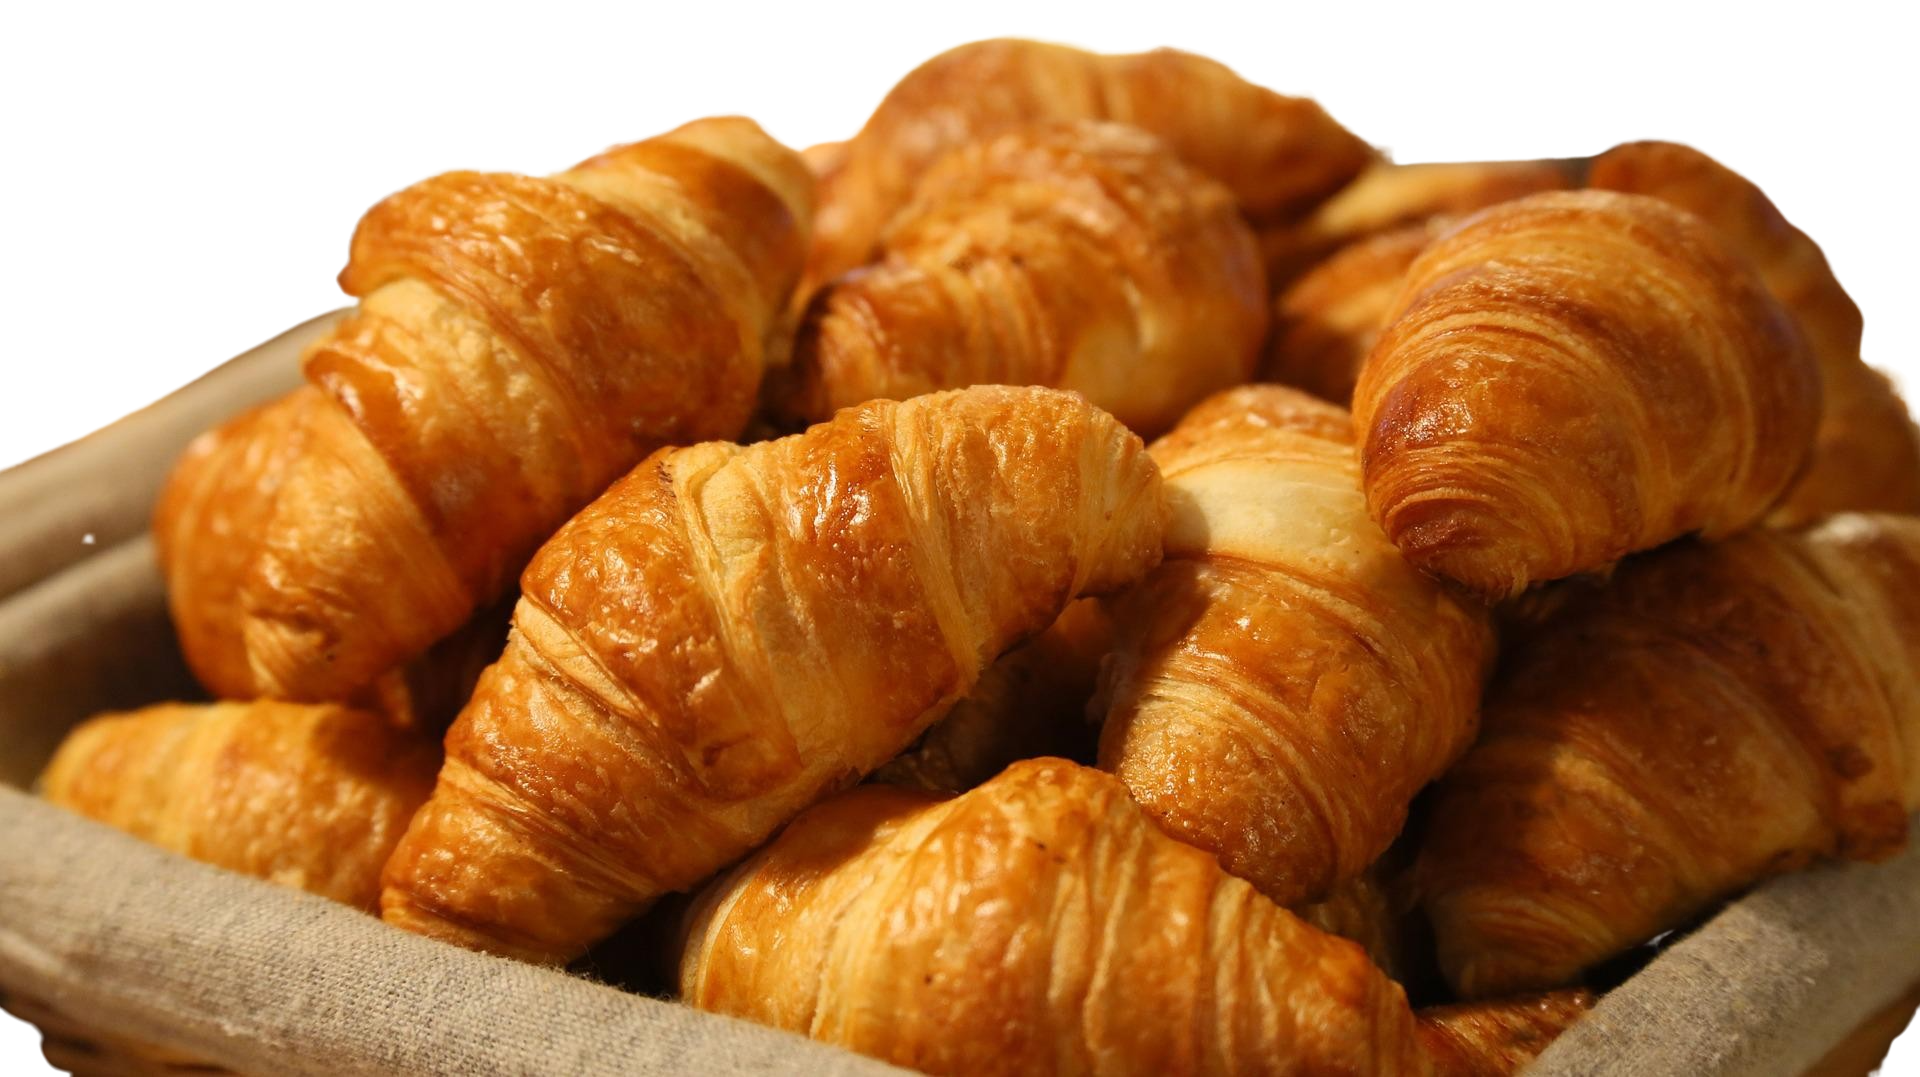
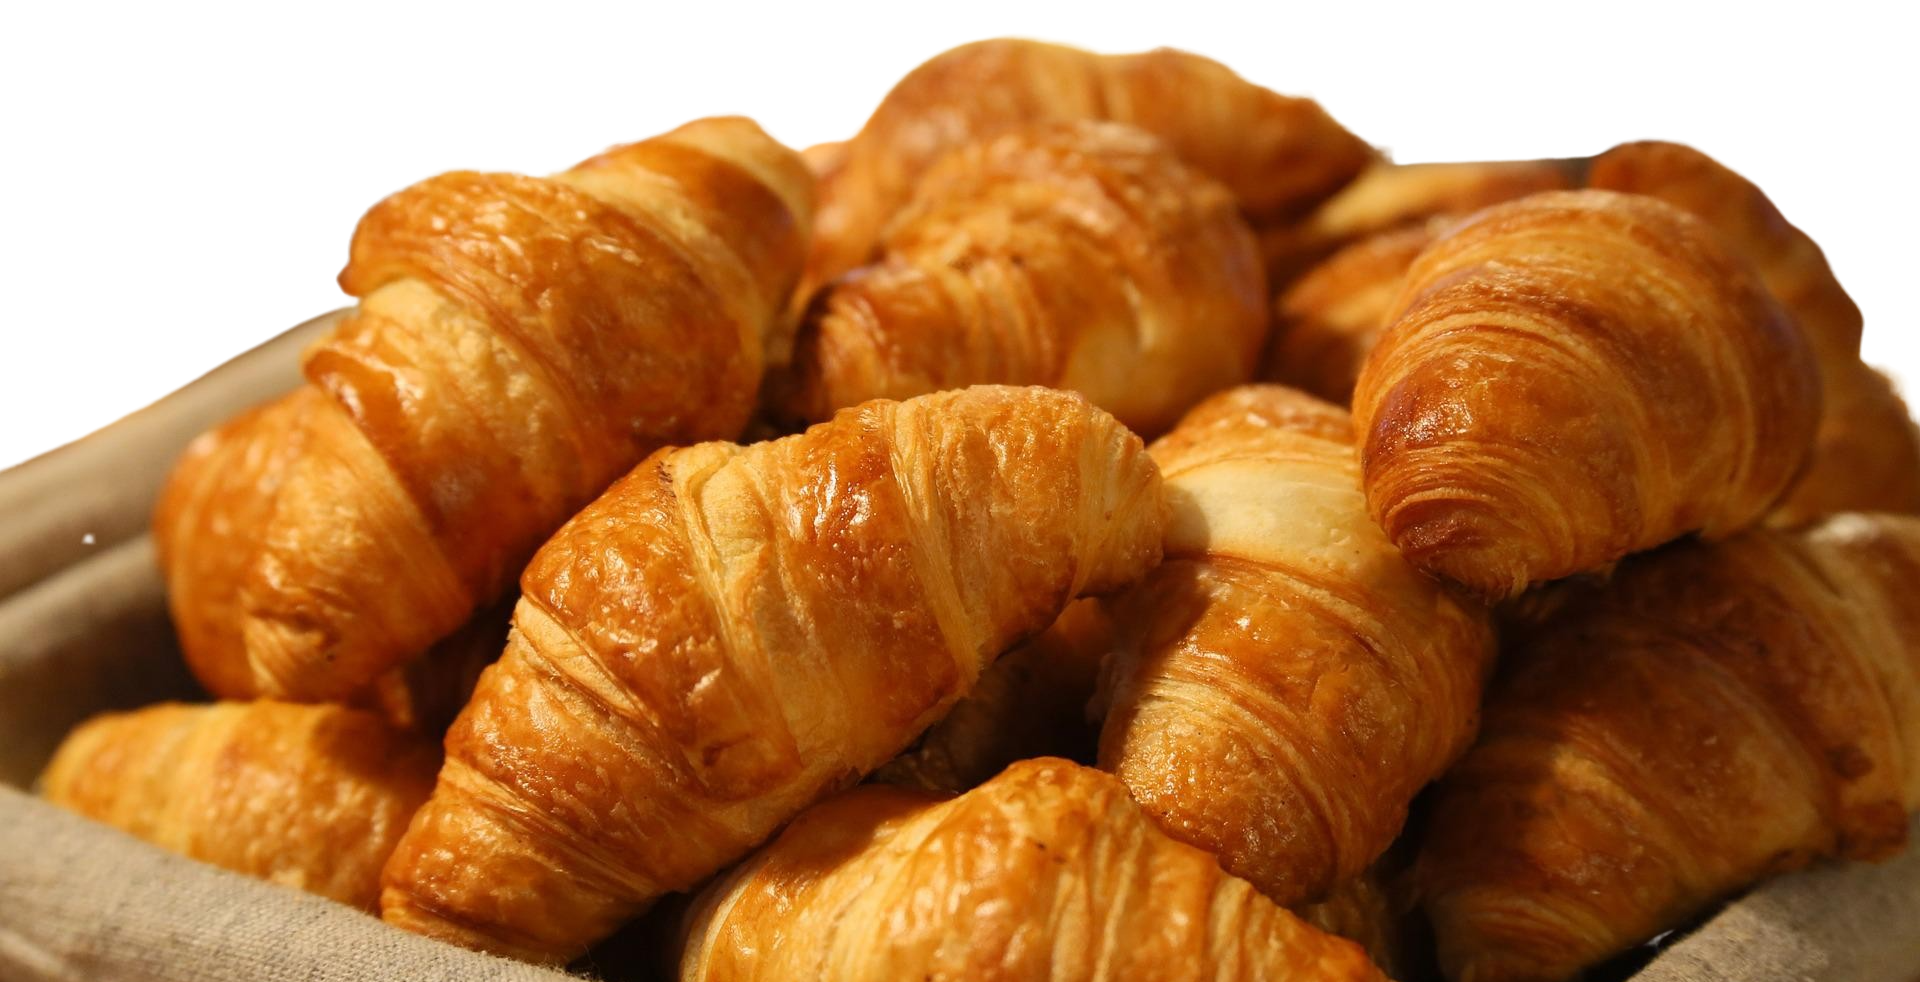
Add files via upload

diff --git a/sams-patisseries/dist/style.css b/sams-patisseries/dist/style.css
@@ -1,1 +1,1 @@
-*,*::before,*::after{box-sizing:border-box;margin:0;padding:0}body{font-family:"Amaranth",sans-serif;background-color:#e8ab16}body,a{color:#2f2f1b}h1,h2,h3,h4,p{line-height:1.5}h1{font-size:clamp(1.75em,1em + 2vw,2.5em)}h2{font-size:clamp(1.375em,0.875em + 2vw,2.25em)}p{font-size:1em}a,a:visited,a:active{text-decoration:none}.sp-footer{background-color:#2f2f1b}.sp-footer__author{background-color:#2f2f1b;color:#e8ab16;display:flex;align-items:center;justify-content:space-between;width:66%;margin:0 auto;padding:.5rem 0}.sp-footer__author__social-media a:nth-of-type(1){margin-right:.5rem}.sp-footer__author__social-media i{color:#e8ab16}.sp-gallery{display:flex;align-items:center;justify-content:center;margin:0 auto}.sp-gallery img{height:250px;width:334px}.sp-header{display:flex;justify-content:space-between;margin:0 auto;max-width:66%}.sp-header__aside{color:#e7e1e0;background-color:#2f2f1b;max-width:35%;text-align:center;padding:1rem}.sp-header__aside__title{font-size:2.5rem;font-family:"Alex Brush",sans-serif}.sp-header__aside__sub-title{margin:5rem 0 15rem;padding:0 1.8rem;font-size:1.2rem;font-family:"Amatic SC",sans-serif;letter-spacing:.05rem}.sp-header__main{max-width:65%;text-align:center}.sp-header__main__nav-links{display:flex;align-items:center;justify-content:space-between}.sp-header__main__nav-links__site-nav{margin:1rem 0 1rem 7.5rem}.sp-header__main__nav-links__site-nav a{margin-left:1rem;text-transform:uppercase;font-size:1.1rem}.sp-header__main__nav-links__social-media{justify-content:flex-end}.sp-header__main__nav-links__social-media a{margin-left:.5rem}.sp-header__main__hero{max-width:80%;margin:3rem auto;font-size:1.3rem}.sp-header__main__hero p{margin-bottom:2.5rem}.sp-header__main__hero a{background-color:#2f2f1b;color:#e8ab16;padding:.75rem 5rem;border-radius:25px;box-shadow:0px 5px 10px rgba(0,0,0,.5)}.sp-hero-section{max-width:66%;margin:0 auto}.sp-hero-section__hero-image{max-width:100%;margin:0 0 0 0}.sp-patisserie-menu{display:flex;flex-direction:column;text-align:center;width:66%;margin:0 auto;padding:3rem 3.5rem;color:#e8ab16;background-color:#324a60;letter-spacing:.1rem}.sp-patisserie-menu h2{font-size:2.5rem}.sp-patisserie-menu h3{font-size:2rem;margin:.7rem 0 .2rem 0}.sp-patisserie-menu h4{font-size:1.5rem;margin:.7rem 0 .8rem 0}.sp-patisserie-menu p{font-size:1.1rem;margin:0 0 .5rem 0}.sp-mission-statement{display:flex;flex-direction:column;row-gap:2rem;width:66%;margin:0 auto;padding:3rem 3.5rem;color:#324a60;background-color:#e7e1e0}.sp-mission-statement__part-1{font-size:1.7rem}.sp-mission-statement__part-2,.sp-mission-statement__part-3,.sp-mission-statement__part-4,.sp-mission-statement__part-5{font-size:1.1rem}.fa-croissant{color:#324a60;background-color:#324a60;font-size:10rem}.sp-newsletter{max-width:66%;margin:0 auto;padding:3rem;text-align:center}.sp-newsletter__prompt{font-size:1.8rem;font-weight:400}.sp-newsletter__input{margin:2rem auto;display:flex;flex-direction:column;max-width:40%}.sp-newsletter__input input{padding:.5rem;border:none;border-bottom:2px solid #2f2f1b;margin-bottom:1.5rem;background-color:rgba(0,0,0,0);font-size:1rem}.sp-newsletter__input input::-moz-placeholder{color:#2f2f1b;font-family:"Amaranth",sans-serif}.sp-newsletter__input input::placeholder{color:#2f2f1b;font-family:"Amaranth",sans-serif}.sp-newsletter__input input:focus{outline:none}.sp-newsletter__input button{font-family:"Amaranth",sans-serif;background-color:#324a60;color:#e8ab16;border-radius:5px;padding:.5rem;font-weight:700;font-size:1rem;border:none;cursor:pointer;box-shadow:0px 5px 10px rgba(0,0,0,.5)}/*# sourceMappingURL=style.css.map */
+*,*::before,*::after{box-sizing:border-box;margin:0;padding:0}*{scroll-behavior:smooth}body{font-family:"Amaranth",sans-serif;background-color:#e8ab16}body,a{color:#2f2f1b}h1,h2,h3,h4,p{line-height:1.5}h1{font-size:clamp(1.75em,1em + 2vw,2.5em)}h2{font-size:clamp(1.375em,0.875em + 2vw,2.25em)}p{font-size:1em}a,a:visited,a:active{text-decoration:none}.sp-footer{background-color:#2f2f1b}.sp-footer__author{background-color:#2f2f1b;color:#e8ab16;display:flex;align-items:center;justify-content:space-between;width:66%;margin:0 auto;padding:.5rem 0}.sp-footer__author__social-media a:nth-of-type(2){margin:0 .5rem}.sp-footer__author__social-media i{color:#e8ab16}@media(max-width: 900px){.sp-footer{max-width:100%}}.sp-gallery{display:flex;align-items:center;justify-content:center;width:66.75%;margin:0 auto}.sp-gallery img{height:auto;width:33%}@media(max-width: 900px){.sp-gallery{max-width:100%}}.sp-header{display:flex;justify-content:space-between;margin:0 auto;max-width:66%}.sp-header__aside{color:#e7e1e0;background-color:#2f2f1b;max-width:35%;text-align:center;padding:1rem}.sp-header__aside__title{font-size:2.5rem;font-family:"Alex Brush",sans-serif}.sp-header__aside__sub-title{margin:5rem 0 20rem;padding:0 1.8rem;font-size:1.2rem;font-family:"Amatic SC",sans-serif;letter-spacing:.05rem}.sp-header__main{max-width:65%;text-align:center}.sp-header__main__nav-links{display:flex;align-items:center;justify-content:space-between}.sp-header__main__nav-links__site-nav{margin:1rem 0 1rem 7.5rem}.sp-header__main__nav-links__site-nav a{margin-left:1rem;text-transform:uppercase;font-size:1.1rem}.sp-header__main__nav-links__site-nav a:hover{color:#324a60;border-bottom:2px solid #324a60;transition:.1s ease}.sp-header__main__nav-links__social-media{justify-content:flex-end}.sp-header__main__nav-links__social-media a{margin-left:.5rem}.sp-header__main__nav-links__social-media i{font-size:1.25rem}.sp-header__main__nav-links__social-media i:hover{color:#324a60;transition:.1s ease}.sp-header__main__hero{max-width:80%;margin:3rem auto;font-size:1.3rem}.sp-header__main__hero p{margin-bottom:2.5rem}.sp-header__main__hero a{background-color:#2f2f1b;color:#e8ab16;padding:.75rem 5rem;border-radius:25px;box-shadow:0px 5px 10px rgba(0,0,0,.5)}.sp-header__main__hero a:hover{background-color:#324a60;transition:.1s ease}@media(max-width: 900px){.sp-header{max-width:100%}}.sp-hero-section{max-width:66%;margin:0 auto}.sp-hero-section__hero-image{max-width:100%;margin:-20rem 0 0}@media(max-width: 900px){.sp-hero-section{max-width:100%}}.sp-patisserie-menu{display:flex;flex-direction:column;text-align:center;width:66%;margin:0 auto;padding:3rem 3.5rem;color:#e8ab16;background-color:#324a60;letter-spacing:.1rem}.sp-patisserie-menu h2{font-size:2.5rem}.sp-patisserie-menu h3{font-size:2rem;margin:.7rem 0 .2rem 0}.sp-patisserie-menu h4{font-size:1.5rem;margin:.7rem 0 .8rem 0}.sp-patisserie-menu p{font-size:1.1rem;margin:0 0 .5rem 0}@media(max-width: 900px){.sp-patisserie-menu{max-width:100%}}.sp-mission-statement{display:flex;flex-direction:column;row-gap:2rem;width:66%;margin:-0.22rem auto 0;padding:3rem 3.5rem;color:#324a60;background-color:#e7e1e0}.sp-mission-statement__part-1{font-size:1.6rem}.sp-mission-statement__part-2,.sp-mission-statement__part-3,.sp-mission-statement__part-4,.sp-mission-statement__part-5{font-size:1.2rem}.fa-croissant{color:#324a60;background-color:#324a60;font-size:10rem}@media(max-width: 900px){.sp-mission-statement{max-width:100%}}.sp-newsletter{max-width:66%;margin:0 auto;padding:3rem;text-align:center}.sp-newsletter__prompt{font-size:1.8rem;font-weight:400}.sp-newsletter__input{margin:2rem auto;display:flex;flex-direction:column;max-width:40%}.sp-newsletter__input input{padding:.5rem;border:none;border-bottom:2px solid #2f2f1b;margin-bottom:1.5rem;background-color:rgba(0,0,0,0);font-size:1rem}.sp-newsletter__input input::-moz-placeholder{color:#2f2f1b;font-family:"Amaranth",sans-serif}.sp-newsletter__input input::placeholder{color:#2f2f1b;font-family:"Amaranth",sans-serif}.sp-newsletter__input input:focus{outline:none}.sp-newsletter__input button{font-family:"Amaranth",sans-serif;background-color:#324a60;color:#e8ab16;border-radius:5px;padding:.5rem;font-weight:700;font-size:1rem;border:none;cursor:pointer;box-shadow:0px 5px 10px rgba(0,0,0,.5)}.sp-newsletter__input button:hover{background-color:#2f2f1b;transition:.1s ease}@media(max-width: 900px){.sp-newsletter{max-width:100%}}/*# sourceMappingURL=style.css.map */

diff --git a/sams-patisseries/index.html b/sams-patisseries/index.html
@@ -11,7 +11,7 @@
   <link rel="preconnect" href="https://fonts.googleapis.com">
   <link rel="preconnect" href="https://fonts.gstatic.com" crossorigin>
   <link href="https://fonts.googleapis.com/css2?family=Alex+Brush&family=Amaranth:wght@400;700&family=Amatic+SC&display=swap" rel="stylesheet">
-  <<link rel="stylesheet" href="https://cdnjs.cloudflare.com/ajax/libs/font-awesome/6.4.0/css/all.min.css" integrity="sha512-iecdLmaskl7CVkqkXNQ/ZH/XLlvWZOJyj7Yy7tcenmpD1ypASozpmT/E0iPtmFIB46ZmdtAc9eNBvH0H/ZpiBw==" crossorigin="anonymous" referrerpolicy="no-referrer" />
+  <link rel="stylesheet" href="https://cdnjs.cloudflare.com/ajax/libs/font-awesome/6.4.0/css/all.min.css" integrity="sha512-iecdLmaskl7CVkqkXNQ/ZH/XLlvWZOJyj7Yy7tcenmpD1ypASozpmT/E0iPtmFIB46ZmdtAc9eNBvH0H/ZpiBw==" crossorigin="anonymous" referrerpolicy="no-referrer" />
   <script src="/app/js/script.js" defer></script>
   <title>Where Culinary Artistry Meets Exceptional Indulgence | Order Today | Sam's Patisseries</title>
 </head>
@@ -27,10 +27,10 @@
     <div class="sp-header__main">
       <div class="sp-header__main__nav-links">
         <div class="sp-header__main__nav-links__site-nav">
-          <a href="#">Food</a>
-          <a href="#">About Us</a>
-          <a href="#">Menu</a>
-          <a href="#">Services</a>
+          <a href="#food">Food</a>
+          <a href="#about">About Us</a>
+          <a href="#menu">Menu</a>
+          <a href="#services">Services</a>
         </div>
         <div class="sp-header__main__nav-links__social-media">
           <a href="#" target="_blank">
@@ -53,10 +53,10 @@
       </div>
     </div>
   </header>
-  <section class="sp-hero-section">
+  <section class="sp-hero-section" id="food">
     <img src="/app/assets/sp-croissants.png" alt="Sam's Patisseries" class="sp-hero-section__hero-image">
   </section>
-  <section class="sp-mission-statement">
+  <section class="sp-mission-statement" id="about">
     <h2 class="sp-mission-statement__part-1">
       Welcome to Sam's Patisseries, where culinary artistry meets exceptional indulgence.
     </h2>
@@ -84,7 +84,7 @@
     </p>
     <i class="fa-duotone fa-croissant"></i>
   </section>
-  <section class="sp-gallery">
+  <section class="sp-gallery" id="menu">
     <img src="/app/assets/sp-coffee-glass.jpg" alt="Sam's Patisseries">
     <img src="/app/assets/sp-fruit-dessert.jpg" alt="Sam's Patisseries">
     <img src="/app/assets/sp-coffee-cup.jpg" alt="Sam's Patisseries">
@@ -176,7 +176,7 @@
       limited-edition offerings when you visit Sam's Patisseries.
     </p>
   </main>
-  <section class="sp-newsletter">
+  <section class="sp-newsletter" id="services">
     <h2 class="sp-newsletter__prompt">
       Want to be the first to receive the latest menu updates and news? Subscribe to our
       newsletter today
@@ -195,9 +195,12 @@
         <a href="#" target="_blank">
           <i class="fa-brands fa-twitter"></i>
         </a>
+        <a href="#" target="_blank">
+          <i class="fa-brands fa-linkedin-in"></i>
+        </a>
       </div>
       <div class="sp-footer__copyright">
-        <p>Copyright 2023 &#169; Sam's Patisseries</p>
+        <p>Copyright &#169; 2023, Sam's Patisseries</p>
       </div>
     </div>
   </footer>

diff --git a/sams-patisseries/app/scss/layout/_header.scss b/sams-patisseries/app/scss/layout/_header.scss
@@ -19,7 +19,7 @@
         }
 
         &__sub-title {
-            margin: 5rem 0 15rem;
+            margin: 5rem 0 20rem;
             padding: 0 1.8rem;
             font-size: 1.2rem;
             font-family: u.$font-stack-tertiary;
@@ -46,12 +46,27 @@
                 font-size: 1.1rem;
             }
 
+            &__site-nav a:hover {
+                color: u.$blue;
+                border-bottom: 2px solid u.$blue;
+                transition: .1s ease;
+            }
+
             &__social-media {
                 justify-content: flex-end;
             }
 
             &__social-media a {
                 margin-left: .5rem;
+            }
+
+            &__social-media i {
+                font-size: 1.25rem;
+            }
+
+            &__social-media i:hover {
+                color: u.$blue;
+                transition: .1s ease;
             }
         }
 
@@ -72,5 +87,16 @@
             border-radius: 25px;
             box-shadow: 0px 5px 10px rgba(0, 0, 0, .5);
         }
+
+        &__hero a:hover {
+            background-color: u.$blue;
+            transition: .1s ease;
+        }
+    }
+}
+
+@media (max-width: 900px) {
+    .sp-header {
+        max-width: 100%;
     }
 }

diff --git a/sams-patisseries/app/scss/layout/_mission.scss b/sams-patisseries/app/scss/layout/_mission.scss
@@ -5,20 +5,20 @@
     flex-direction: column;
     row-gap: 2rem;
     width: 66%;
-    margin: 0 auto;
+    margin: -.22rem auto 0;
     padding: 3rem 3.5rem;
     color: u.$blue;
     background-color: u.$white;
 
     &__part-1 {
-        font-size: 1.7rem;
+        font-size: 1.6rem;
     }
 
     &__part-2,
     &__part-3,
     &__part-4,
     &__part-5 {
-        font-size: 1.1rem;
+        font-size: 1.2rem;
     }
 }
 
@@ -26,4 +26,10 @@
     color: u.$blue;
     background-color: u.$blue;
     font-size: 10rem;
+}
+
+@media (max-width: 900px) {
+    .sp-mission-statement {
+        max-width: 100%;
+    }
 }

diff --git a/sams-patisseries/app/scss/layout/_footer.scss b/sams-patisseries/app/scss/layout/_footer.scss
@@ -13,12 +13,18 @@
         margin: 0 auto;
         padding: .5rem 0;
 
-        &__social-media a:nth-of-type(1) {
-            margin-right: .5rem;
+        &__social-media a:nth-of-type(2) {
+            margin: 0 .5rem;
         }
 
         &__social-media i {
             color: u.$gold;
         }
+    }
+}
+
+@media (max-width: 900px) {
+    .sp-footer {
+        max-width: 100%;
     }
 }

diff --git a/sams-patisseries/app/scss/layout/_gallery.scss b/sams-patisseries/app/scss/layout/_gallery.scss
@@ -2,10 +2,17 @@
     display: flex;
     align-items: center;
     justify-content: center;
+    width: 66.75%;
     margin: 0 auto;
 }
 
 .sp-gallery img {
-    height: 250px;
-    width: 334px;
+    height: auto;
+    width: 33%
+}
+
+@media (max-width: 900px) {
+    .sp-gallery {
+        max-width: 100%;
+    }
 }

diff --git a/sams-patisseries/app/scss/layout/_newsletter.scss b/sams-patisseries/app/scss/layout/_newsletter.scss
@@ -48,4 +48,15 @@
         cursor: pointer;
         box-shadow: 0px 5px 10px rgba(0, 0, 0, .5);
     }
+
+    &__input button:hover {
+        background-color: u.$black;
+        transition: .1s ease;
+    }
+}
+
+@media (max-width: 900px) {
+    .sp-newsletter {
+        max-width: 100%;
+    }
 }

diff --git a/sams-patisseries/app/scss/layout/_hero.scss b/sams-patisseries/app/scss/layout/_hero.scss
@@ -4,6 +4,12 @@
 
     &__hero-image {
         max-width: 100%;
-        margin: 0 0 0 0;
+        margin: -20rem 0 0;
+    }
+}
+
+@media (max-width: 900px) {
+    .sp-hero-section {
+        max-width: 100%;
     }
 }

diff --git a/sams-patisseries/app/scss/layout/_menu.scss b/sams-patisseries/app/scss/layout/_menu.scss
@@ -30,3 +30,9 @@
     font-size: 1.1rem;
     margin: 0 0 .5rem 0;
 }
+
+@media (max-width: 900px) {
+    .sp-patisserie-menu {
+        max-width: 100%;
+    }
+}

diff --git a/sams-patisseries/app/scss/base/_typography.scss b/sams-patisseries/app/scss/base/_typography.scss
@@ -1,5 +1,9 @@
 @use '../utils' as u;
 
+* {
+  scroll-behavior: smooth;
+}
+
 body {
   font-family: u.$font-stack-primary;
   background-color: u.$gold;
